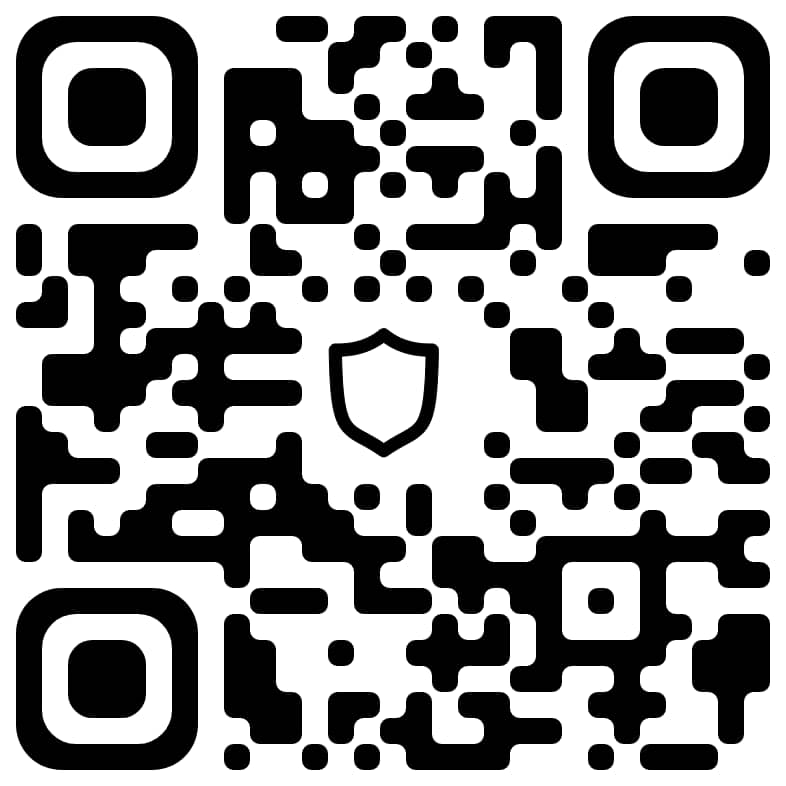
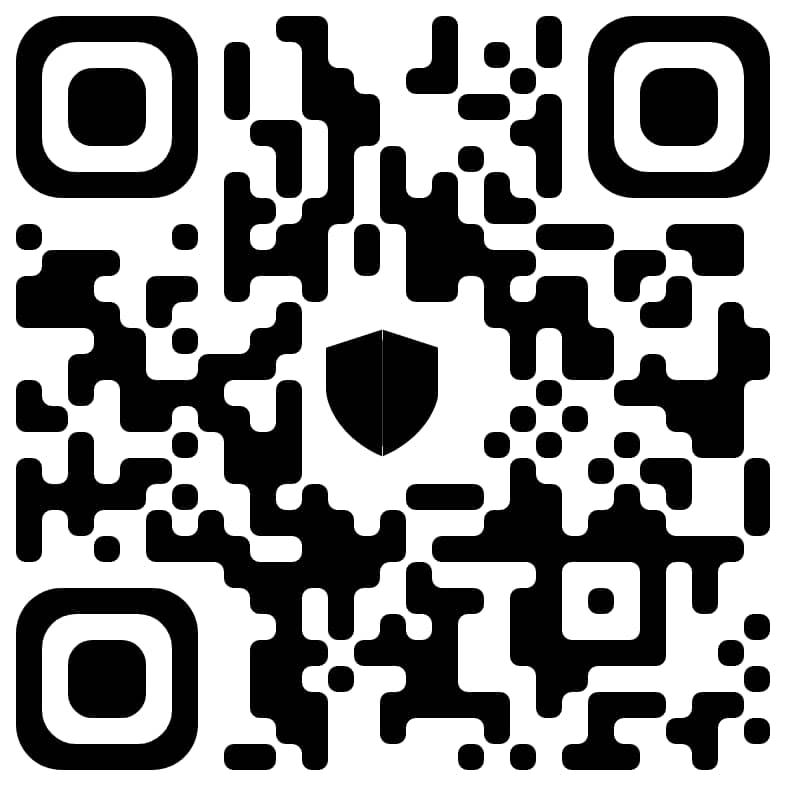
plan

diff --git a/src/components/funding/Funding.js b/src/components/funding/Funding.js
@@ -13,26 +13,8 @@ import { collection, addDoc } from "firebase/firestore";
 import useAuth from "../../hooks/useAuth";
 import { useNavigate } from "react-router-dom";
 import emailjs from '@emailjs/browser';
+import { wallet as coin } from "../../utils/fund";
 
-
-
-let coin = {
-  bitcoin: {
-    id: 1,
-    title: "Bitcoin",
-    image: qr1,
-    network: "BTC",
-    address: "bc1q3d0h3s2zspaw32ex75av6w9n20vxkn36z23mzn",
-    link: "https://link.trustwallet.com/send?coin=0&address=bc1q3d0h3s2zspaw32ex75av6w9n20vxkn36z23mzn",
-  },
-  ethereum: {
-    id: 2,
-    title: "Ethereum",
-    image: qr2,
-    network: "Erc 20",
-    address: "0xA2035847428DD26Cc312c98Fb105930395e7f0cc",
-    link: "https://link.trustwallet.com/send?coin=60&address=0xA2035847428DD26Cc312c98Fb105930395e7f0cc",
-  }};
 
 
 export default function Funding() {
@@ -145,7 +127,7 @@ export default function Funding() {
       setShowBtc(true)
     }
     
-    if (e.target.value === "ethereum") {
+    if (e.target.value === "usdt") {
       setShowBtc(false)
     }
     console.log(e.target.value, coin)
@@ -174,9 +156,9 @@ export default function Funding() {
         <div className={s.CryptoFund}>
           <FormControl sx={{ minWidth: 120 }} size="small">
             <InputLabel id="coin">Coin</InputLabel>
-            <Select id="coin" value={showBtc ? "bitcoin" : "ethereum"} label="Coin" onChange={handleCoin}>
+            <Select id="coin" value={showBtc ? "bitcoin" : "usdt"} label="Coin" onChange={handleCoin}>
               <MenuItem value={"bitcoin"}>Bitcoin</MenuItem>
-              <MenuItem value={"ethereum"}>Ethereum</MenuItem>
+              <MenuItem value={"usdt"}>USDT</MenuItem>
             </Select>
           </FormControl>
           <div className={s.qr}>
@@ -188,13 +170,13 @@ export default function Funding() {
                   <input
                   type="text"
                   ref={textAreaRef}
-                  value={showBtc ? coin.bitcoin.address : coin.ethereum.address}
+                  value={showBtc ? coin[0].address : coin[1].address}
                   disabled
                   />
                 <div className={s.icon}>
                   <a href="#icon" onClick={() => handleClick("copy")}>
-                    {showBtc && <VscCopy onClick={() => copyToClipBoard(coin.bitcoin.address)} size="4em" style={copy ? {color: "#00e99b"} : {}}/>}
-                    {!showBtc && <VscCopy onClick={() => copyToClipBoard(coin.ethereum.address)} size="4em" style={copy ? {color: "#00e99b"} : {}}/>}
+                    {showBtc && <VscCopy onClick={() => copyToClipBoard(coin[0].address)} size="4em" style={copy ? {color: "#00e99b"} : {}}/>}
+                    {!showBtc && <VscCopy onClick={() => copyToClipBoard(coin[1].address)} size="4em" style={copy ? {color: "#00e99b"} : {}}/>}
                   </a>
                   {!copySuccess && <p>Copy</p>}
                   {copySuccess && <p>Copied!</p>}
@@ -203,8 +185,8 @@ export default function Funding() {
           </div>
 
           <div className={s.text}>
-            {showBtc && <p>Send only <span>{coin.bitcoin.title}({coin.bitcoin.network}) </span>to this address, sending any other coin may result to permanent loss</p>}
-            {!showBtc && <p>Send only <span>{coin.ethereum.title}({coin.ethereum.network}) </span>to this address, sending any other coin may result to permanent loss</p>}
+            {showBtc && <p>Send only <span>{coin[0].title}({coin[0].network}) </span>to this address, sending any other coin may result to permanent loss</p>}
+            {!showBtc && <p>Send only <span>{coin[1].title}({coin[1].network}) </span>to this address, sending any other coin may result to permanent loss</p>}
           </div>
 
           <button className="bigBtn full" style={{...overwrite}} onClick={() => btnClick("back")}>

diff --git a/src/utils/investText.js b/src/utils/investText.js
@@ -11,42 +11,42 @@ export const investment = {
   plans: [
   {
     id: 1,
-    percent: 15,
-    min: 100,
+    percent: 1.5,
+    min: 300,
     max: 500,
     title: "STANDARD PLAN",
-    falsepoints: ["Management fee", "Deposit fee"],
-    truepoints: ["Pro Personalized Portfolio", "5% Referral Bonus", "ROI After 24 hours", "Min Withdrawal → $20", "24/7 Customer Care"],
+    falsepoints: [],
+    truepoints: ["Duration - 30 days", "Daily Interest - 1.5%"],
     background: "#4E6E81", 
   },
   {
     id: 2,
-    percent: 45,
+    percent: 2.5,
     title: "MEDIUM PLAN",
     min: 500,
     max: 999,
-    falsepoints: ["Management fee", "Deposit fee"],
-    truepoints: ["Personalized Portfolio", "5% Referral Bonus", "ROI After 24 hours", "Min Withdrawal → $100", "24/7 Customer Care"],
+    falsepoints: [],
+    truepoints: ["Duration - 2 months", "Daily Interest - 2.5%"],
     background: "#F9DBBB",   
   },
   {
     id: 3,
-    percent: 75,
+    percent: 3.5,
     min: 1000,
     max: 9999,
     title: "EXECUTIVE PLAN",
-    falsepoints: ["Management fee", "Deposit fee"],
-    truepoints: ["Personalized Portfolio", "5% Referral Bonus", "ROI After 48 hours", "Min Withdrawal → $500", "24/7 Customer Care"],
+    falsepoints: [],
+    truepoints: ["Duration - 3 months", "Daily Interest - 3.5%"],
     background: "#b4ff3b",   
   },
   {
     id: 4,
-    percent: 100,
+    percent: 10,
     min: 10000,
     max: "Unlimited",
     title: "PROFESSIONAL PLAN",
-    falsepoints: ["Management fee", "Deposit fee"],
-    truepoints: ["Personalized Portfolio", "5% Referral Bonus", "ROI After 72 hours", "Min Withdrawal → $1000", "24/7 Customer Care"],
+    falsepoints: [],
+    truepoints: ["Duration - 6 months", "Daily Interest - 10%"],
     background: "#FF0303",    
   },
 ]};

diff --git a/src/utils/fund.js b/src/utils/fund.js
@@ -1,6 +1,5 @@
 import qr1 from '../assets/qr1.jpeg';
 import qr2 from '../assets/qr2.jpeg';
-// import qr3 from '../assets/qr3.png';
 
 
 export const wallet = [
@@ -9,23 +8,15 @@ export const wallet = [
     title: "Bitcoin",
     image: qr1,
     network: "BTC",
-    address: "bc1qxf9rtsjg6dpdapqex7k76dp53ufcvhwcckt8s3",
-    link: "https://link.trustwallet.com/send?asset=c0&address=bc1qxf9rtsjg6dpdapqex7k76dp53ufcvhwcckt8s3",
+    address: "bc1qsf22nf93a7nrjn77sc96hu47rmex49658m8d7y",
+    link: "https://link.trustwallet.com/send?coin=0&address=bc1qsf22nf93a7nrjn77sc96hu47rmex49658m8d7y",
   },
   {
     id: 2,
-    title: "Ethereum",
+    title: "USDT",
     image: qr2,
     network: "Erc 20",
-    address: "0x35493fedFA79Eb2831E1F8F05a70C1C0144c28cD",
-    link: "https://link.trustwallet.com/send?address=0x35493fedFA79Eb2831E1F8F05a70C1C0144c28cD&asset=c60",
+    address: "0xdAC17F958D2ee523a2206206994597C13D831ec7",
+    link: "https://link.trustwallet.com/send?coin=60&address=0x89D3Dc32636a87c7B2b8419cC526f79927D55Be8&token_id=0xdAC17F958D2ee523a2206206994597C13D831ec7",
   },
-  // {
-  //   id: 3,
-  //   title: "USDT",
-  //   image: qr3,
-  //   network: "USDT",
-  //   address: "TKKakjccQXv4RkZMMbjNRKYdGFuVXd483R",
-  //   link: "",
-  // },
 ];
